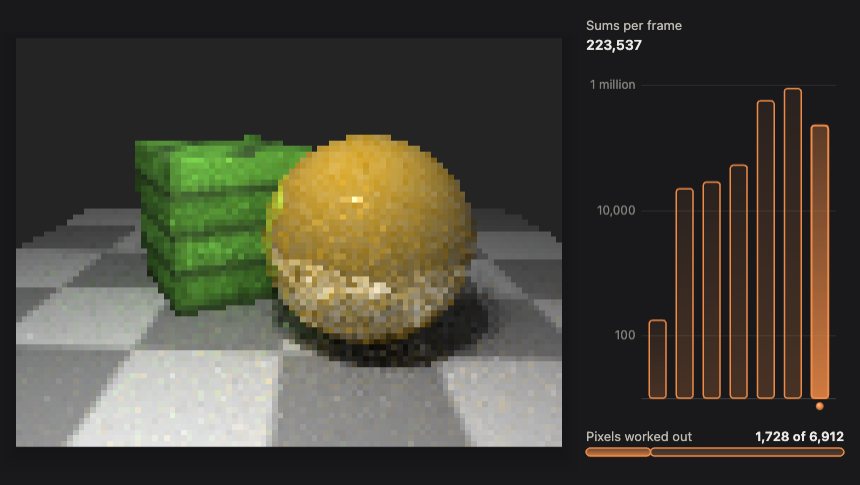
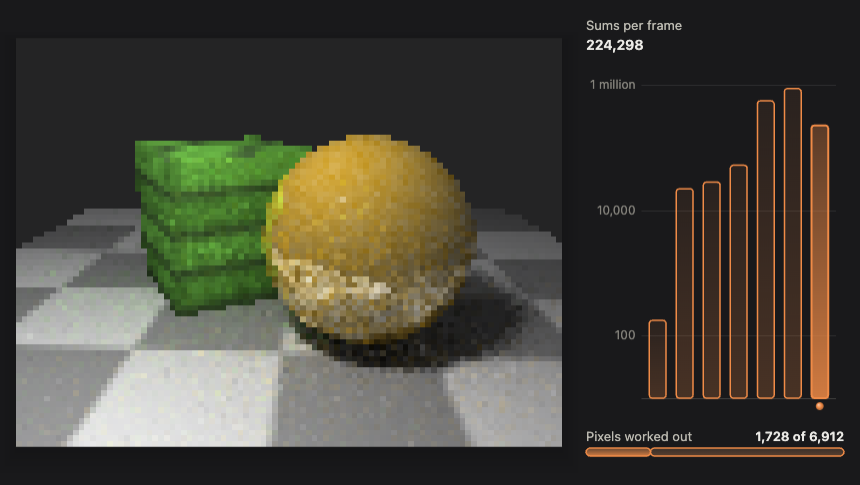
Fix half-drawn and noisy frames in the opening demo of How a GPU works

diff --git a/how-gpus-work/index.html b/how-gpus-work/index.html
@@ -4438,11 +4438,13 @@ figure.demo { margin: 2.6rem calc(50% - min(430px, 50vw - 16px)); }
     { mode: 'outline' },
     { light: 'off' },
     { tex: 'correct', filter: 'bilinear', light: 'vertex', shine: 0 },
-    { tex: 'correct', filter: 'bilinear', light: 'pixel', shadow: { size: 64 } },
+    { tex: 'correct', filter: 'bilinear', light: 'pixel', shadow: { size: 64, bias: 0.35 } },   // 0.15 leaves dots on the crate and ball as the lamp swings
   ];
   const ALL = 96 * 72;
   const QUARTER = [[-0.25, -0.25], [0.25, 0.25], [0.25, -0.25], [-0.25, 0.25]];
   const KEEP = 0.2;          // each frame enters the kept picture at 0.2 (H39)
+  const MOVED = 0.6;         // while the camera turns, most of the kept picture is replaced
+  const SWING = 0.6;
   const BUDGET = 150000;     // tests per frame for the picture on screen
   const BACKGROUND = 60000;  // tests per frame for the bills of the ways not on screen
 
@@ -4452,8 +4454,9 @@ figure.demo { margin: 2.6rem calc(50% - min(430px, 50vw - 16px)); }
 
     let swing = 0, turn = 0, lamp = 0;
     let paintKey = '';
-    let pic = null;                 // what the screen shows
+    let pic = null;                 // what the screen shows: always a complete picture
     let job = null, seed = 1, pass = 0, jobEra = -1, jobView = '', since = 0;
+    let front = null, spare = null; // the ray picture is worked in a spare buffer and shown when whole
     const hist = { full: kit.buffer(96, 72) };
     const bills = new Array(7).fill(null);
     let ladder = null;              // the traced ways' bills at the starting view, worked out in the background
@@ -4461,16 +4464,18 @@ figure.demo { margin: 2.6rem calc(50% - min(430px, 50vw - 16px)); }
     const camOf = () => (turn ? { turn: Math.round(turn * 1000) / 1000 } : null);
     const view = () => ({ lamp: Math.round(lamp * 1000) / 1000, cam: camOf() });
 
-    function reset() { job = null; since = 0; pic = null; jobEra = -1; jobView = ''; }
-    era.onChange(reset);
+    // A new way keeps the old picture on the screen until it has one of its own.
+    function leave() { job = null; jobEra = -1; }
+    function recolour() { leave(); pic = null; front = spare = null; }
+    era.onChange(leave);
 
     d.pointer({ axis: 'x', drag: (p, dd) => { turn = clamp(turn + dd.x * 0.006, -1.2, 1.2); } });
 
-    // A traced frame arrives row by row; each row is blended into the kept picture as it lands.
-    // After a fresh start a pixel's first few samples are averaged plainly, then each new one
-    // enters at KEEP.
+    // A path-traced frame arrives row by row; each row is blended into the kept picture as it
+    // lands. The kept picture starts as whatever was on the screen, so a new frame enters at KEEP
+    // from the first. After the camera has turned, new frames enter faster for a while.
     function blendRow(y, j, quarter) {
-      const H = hist.full.color, src = j.color, n = quarter ? Math.floor(j.since / 4) : j.since, a = Math.max(KEEP, 1 / (n + 1));
+      const H = hist.full.color, src = j.color, a = j.keep;
       if (!quarter) {
         for (let i = y * 96 * 3, e = i + 96 * 3; i < e; i++) H[i] += (src[i] - H[i]) * a;
       } else {
@@ -4478,8 +4483,8 @@ figure.demo { margin: 2.6rem calc(50% - min(430px, 50vw - 16px)); }
         for (let X = 0; X < 48; X++) {
           const s = 3 * (y * 48 + X);
           for (let by = 0; by < 2; by++) for (let bx = 0; bx < 2; bx++) {
-            // a fresh start fills the whole 2 x 2 block; after that each sample feeds its own pixel
-            if (j.since > 0 && (bx !== ox || by !== oy)) continue;
+            // a turned camera fills the whole 2 x 2 block; otherwise each sample feeds its own pixel
+            if (!j.whole && (bx !== ox || by !== oy)) continue;
             const t = 3 * ((2 * y + by) * 96 + 2 * X + bx);
             for (let k = 0; k < 3; k++) H[t + k] += (src[s + k] - H[t + k]) * a;
           }
@@ -4490,26 +4495,34 @@ figure.demo { margin: 2.6rem calc(50% - min(430px, 50vw - 16px)); }
 
     function startJob(e, P) {
       const v = view(), key = JSON.stringify(camOf());
-      if (key !== jobView) since = 0;
-      jobView = key;
-      jobEra = e;
       if (e === 4) {
-        job = kit.trace({ paints: P, scene: v, mode: 'mirror', into: job && job.w === 96 && job.mode === 'mirror' ? job : null });
-      } else if (e === 5) {
-        job = kit.trace({ paints: P, scene: v, mode: 'path', spp: 1, seed: seed++, onRow: (y, j) => blendRow(y, j, false) });
+        job = kit.trace({ paints: P, scene: v, mode: 'mirror', into: spare });
+        return;
+      }
+      if (jobEra !== e) {
+        // entering a path way: its kept picture is the picture on the screen
+        if (pic !== hist.full) { hist.full.color.set(pic.color); hist.full.version++; }
+        since = 16;
+      } else if (key !== jobView) since = 0;
+      jobView = key;
+      const quarter = e === 6, n = quarter ? Math.floor(since / 4) : since;
+      if (!quarter) {
+        job = kit.trace({ paints: P, scene: v, mode: 'path', spp: 1, seed: seed++, clamp: 1, onRow: (y, j) => blendRow(y, j, false) });
       } else {
         const shift = QUARTER[pass++ % 4];
-        job = kit.trace({ paints: P, scene: v, mode: 'path', spp: 1, seed: seed++, w: 48, h: 36, jitter: shift, onRow: (y, j) => blendRow(y, j, true) });
+        job = kit.trace({ paints: P, scene: v, mode: 'path', spp: 1, seed: seed++, clamp: 1, w: 48, h: 36, jitter: shift, onRow: (y, j) => blendRow(y, j, true) });
         job.shift = shift;
       }
-      job.since = since++;
+      job.keep = Math.min(MOVED, Math.max(KEEP, 1 / (n + 1)));
+      job.whole = quarter && since === 0;
+      since++;
     }
 
     d.animate((dt) => {
       if (run.value) swing += dt;
-      lamp = 0.8 * Math.sin(swing * 0.42);
+      lamp = SWING * Math.sin(swing * 0.42);
       const P = kit.paints(d);
-      if (P.key !== paintKey) { paintKey = P.key; reset(); ladder = null; }
+      if (P.key !== paintKey) { paintKey = P.key; recolour(); ladder = null; }
       const e = era.value;
 
       if (!ladder) {
@@ -4527,14 +4540,18 @@ figure.demo { margin: 2.6rem calc(50% - min(430px, 50vw - 16px)); }
       if (e <= 3) {
         pic = kit.picture(d, Object.assign({ scene: view() }, RASTER[e]));
         bills[e] = pic.counts.bill;
+        leave();
         return;
       }
-      if (!job || jobEra !== e) startJob(e, P);
+      // nothing on the screen yet: start from the rasterised picture, never from an empty one
+      if (!pic) pic = kit.picture(d, Object.assign({ scene: view() }, RASTER[3]));
+      if (!job || jobEra !== e) { startJob(e, P); jobEra = e; }
+      if (e > 4) pic = hist.full;
       if (job.step(BUDGET)) {
         bills[e] = job.counts.bill;
+        if (e === 4) { spare = front; front = job; pic = front; }
         startJob(e, P);
       }
-      pic = e === 4 ? job : hist.full;
     });
 
     // Wide: the screen, and beside it the bills and the pixels meter. Narrow: the screen as large

diff --git a/how-gpus-work/ru/index.html b/how-gpus-work/ru/index.html
@@ -4438,11 +4438,13 @@ figure.demo { margin: 2.6rem calc(50% - min(430px, 50vw - 16px)); }
     { mode: 'outline' },
     { light: 'off' },
     { tex: 'correct', filter: 'bilinear', light: 'vertex', shine: 0 },
-    { tex: 'correct', filter: 'bilinear', light: 'pixel', shadow: { size: 64 } },
+    { tex: 'correct', filter: 'bilinear', light: 'pixel', shadow: { size: 64, bias: 0.35 } },   // 0.15 leaves dots on the crate and ball as the lamp swings
   ];
   const ALL = 96 * 72;
   const QUARTER = [[-0.25, -0.25], [0.25, 0.25], [0.25, -0.25], [-0.25, 0.25]];
   const KEEP = 0.2;          // each frame enters the kept picture at 0.2 (H39)
+  const MOVED = 0.6;         // while the camera turns, most of the kept picture is replaced
+  const SWING = 0.6;
   const BUDGET = 150000;     // tests per frame for the picture on screen
   const BACKGROUND = 60000;  // tests per frame for the bills of the ways not on screen
 
@@ -4452,8 +4454,9 @@ figure.demo { margin: 2.6rem calc(50% - min(430px, 50vw - 16px)); }
 
     let swing = 0, turn = 0, lamp = 0;
     let paintKey = '';
-    let pic = null;                 // what the screen shows
+    let pic = null;                 // what the screen shows: always a complete picture
     let job = null, seed = 1, pass = 0, jobEra = -1, jobView = '', since = 0;
+    let front = null, spare = null; // the ray picture is worked in a spare buffer and shown when whole
     const hist = { full: kit.buffer(96, 72) };
     const bills = new Array(7).fill(null);
     let ladder = null;              // the traced ways' bills at the starting view, worked out in the background
@@ -4461,16 +4464,18 @@ figure.demo { margin: 2.6rem calc(50% - min(430px, 50vw - 16px)); }
     const camOf = () => (turn ? { turn: Math.round(turn * 1000) / 1000 } : null);
     const view = () => ({ lamp: Math.round(lamp * 1000) / 1000, cam: camOf() });
 
-    function reset() { job = null; since = 0; pic = null; jobEra = -1; jobView = ''; }
-    era.onChange(reset);
+    // A new way keeps the old picture on the screen until it has one of its own.
+    function leave() { job = null; jobEra = -1; }
+    function recolour() { leave(); pic = null; front = spare = null; }
+    era.onChange(leave);
 
     d.pointer({ axis: 'x', drag: (p, dd) => { turn = clamp(turn + dd.x * 0.006, -1.2, 1.2); } });
 
-    // A traced frame arrives row by row; each row is blended into the kept picture as it lands.
-    // After a fresh start a pixel's first few samples are averaged plainly, then each new one
-    // enters at KEEP.
+    // A path-traced frame arrives row by row; each row is blended into the kept picture as it
+    // lands. The kept picture starts as whatever was on the screen, so a new frame enters at KEEP
+    // from the first. After the camera has turned, new frames enter faster for a while.
     function blendRow(y, j, quarter) {
-      const H = hist.full.color, src = j.color, n = quarter ? Math.floor(j.since / 4) : j.since, a = Math.max(KEEP, 1 / (n + 1));
+      const H = hist.full.color, src = j.color, a = j.keep;
       if (!quarter) {
         for (let i = y * 96 * 3, e = i + 96 * 3; i < e; i++) H[i] += (src[i] - H[i]) * a;
       } else {
@@ -4478,8 +4483,8 @@ figure.demo { margin: 2.6rem calc(50% - min(430px, 50vw - 16px)); }
         for (let X = 0; X < 48; X++) {
           const s = 3 * (y * 48 + X);
           for (let by = 0; by < 2; by++) for (let bx = 0; bx < 2; bx++) {
-            // a fresh start fills the whole 2 x 2 block; after that each sample feeds its own pixel
-            if (j.since > 0 && (bx !== ox || by !== oy)) continue;
+            // a turned camera fills the whole 2 x 2 block; otherwise each sample feeds its own pixel
+            if (!j.whole && (bx !== ox || by !== oy)) continue;
             const t = 3 * ((2 * y + by) * 96 + 2 * X + bx);
             for (let k = 0; k < 3; k++) H[t + k] += (src[s + k] - H[t + k]) * a;
           }
@@ -4490,26 +4495,34 @@ figure.demo { margin: 2.6rem calc(50% - min(430px, 50vw - 16px)); }
 
     function startJob(e, P) {
       const v = view(), key = JSON.stringify(camOf());
-      if (key !== jobView) since = 0;
-      jobView = key;
-      jobEra = e;
       if (e === 4) {
-        job = kit.trace({ paints: P, scene: v, mode: 'mirror', into: job && job.w === 96 && job.mode === 'mirror' ? job : null });
-      } else if (e === 5) {
-        job = kit.trace({ paints: P, scene: v, mode: 'path', spp: 1, seed: seed++, onRow: (y, j) => blendRow(y, j, false) });
+        job = kit.trace({ paints: P, scene: v, mode: 'mirror', into: spare });
+        return;
+      }
+      if (jobEra !== e) {
+        // entering a path way: its kept picture is the picture on the screen
+        if (pic !== hist.full) { hist.full.color.set(pic.color); hist.full.version++; }
+        since = 16;
+      } else if (key !== jobView) since = 0;
+      jobView = key;
+      const quarter = e === 6, n = quarter ? Math.floor(since / 4) : since;
+      if (!quarter) {
+        job = kit.trace({ paints: P, scene: v, mode: 'path', spp: 1, seed: seed++, clamp: 1, onRow: (y, j) => blendRow(y, j, false) });
       } else {
         const shift = QUARTER[pass++ % 4];
-        job = kit.trace({ paints: P, scene: v, mode: 'path', spp: 1, seed: seed++, w: 48, h: 36, jitter: shift, onRow: (y, j) => blendRow(y, j, true) });
+        job = kit.trace({ paints: P, scene: v, mode: 'path', spp: 1, seed: seed++, clamp: 1, w: 48, h: 36, jitter: shift, onRow: (y, j) => blendRow(y, j, true) });
         job.shift = shift;
       }
-      job.since = since++;
+      job.keep = Math.min(MOVED, Math.max(KEEP, 1 / (n + 1)));
+      job.whole = quarter && since === 0;
+      since++;
     }
 
     d.animate((dt) => {
       if (run.value) swing += dt;
-      lamp = 0.8 * Math.sin(swing * 0.42);
+      lamp = SWING * Math.sin(swing * 0.42);
       const P = kit.paints(d);
-      if (P.key !== paintKey) { paintKey = P.key; reset(); ladder = null; }
+      if (P.key !== paintKey) { paintKey = P.key; recolour(); ladder = null; }
       const e = era.value;
 
       if (!ladder) {
@@ -4527,14 +4540,18 @@ figure.demo { margin: 2.6rem calc(50% - min(430px, 50vw - 16px)); }
       if (e <= 3) {
         pic = kit.picture(d, Object.assign({ scene: view() }, RASTER[e]));
         bills[e] = pic.counts.bill;
+        leave();
         return;
       }
-      if (!job || jobEra !== e) startJob(e, P);
+      // nothing on the screen yet: start from the rasterised picture, never from an empty one
+      if (!pic) pic = kit.picture(d, Object.assign({ scene: view() }, RASTER[3]));
+      if (!job || jobEra !== e) { startJob(e, P); jobEra = e; }
+      if (e > 4) pic = hist.full;
       if (job.step(BUDGET)) {
         bills[e] = job.counts.bill;
+        if (e === 4) { spare = front; front = job; pic = front; }
         startJob(e, P);
       }
-      pic = e === 4 ? job : hist.full;
     });
 
     // Wide: the screen, and beside it the bills and the pixels meter. Narrow: the screen as large
